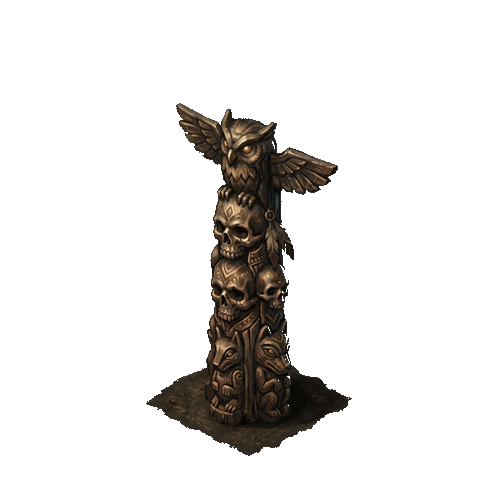
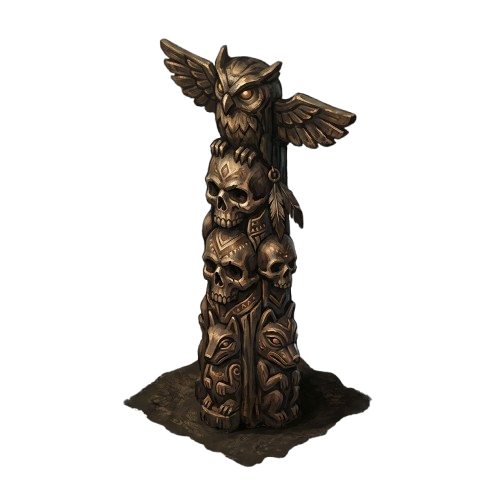
release: icona di gioco, asset finali, smoothness, documentazione di consegna
- icon.png/icon.ico (logo utente) cablati: icona di progetto/finestra + impressa nell'exe (rcedit).

- boss_fase3 rigenerato HI-RES (1376x768, buchi interni chiusi, ricentrato); totem lv2 pulito (removebg).

- Smoothness: PREWARM di tutte le texture del fight in configura() (niente load nel frame di spawn = micro-scatti eliminati); label ondata aggiornata solo su cambio.

- Documentazione di consegna: Docs/21-GDD (completo), 22-manuale-di-gioco, 23-note-tecniche. Cartella 'Consegna SVG' sul Desktop con exe+docs.

Changed region(s): [[0.24, 0.06, 0.75, 0.96]]

diff --git a/Docs/21-GDD.md b/Docs/21-GDD.md
@@ -1,0 +1,191 @@
+# HUMANITY LEDGER — Game Design Document
+
+*Versione 1.0 — Consegna esame Sviluppo Videogiochi, luglio 2026*
+*Engine: Godot 4.6 (GDScript) · Piattaforma: Windows Desktop*
+
+---
+
+## 1. Visione
+
+**Pitch.** Sei lo *Spirito anonimo del popolo*: una coscienza senza nome che attraversa le ere
+e guida una civiltà dalle pitture rupestri alle soglie del futuro. Non governi con i menù:
+**prendi decisioni trascinando le strategie sui consiglieri che le sostengono**, e ogni scelta
+resta scritta nel *Ledger* — il libro mastro dell'umanità.
+
+**Genere.** Gestionale narrativo a decisioni (drag & drop) + city-builder leggero + **tower
+defense auto-battler** (L'Assedio) come climax di fine era.
+
+**Tono.** Mito e memoria: "tomo illuminato" — bronzo, oro, pergamena; solenne ma leggibile.
+
+### 1.1 I tre pilastri
+1. **Ogni scelta resta.** Le decisioni muovono 8 statistiche, aprono quest, richiamano
+   conseguenze a distanza di ere, sbloccano lore permanente nel Ledger (meta-progressione).
+2. **Il villaggio è il protagonista.** Cresce a vista (stile Clash of Clans), produce Risorse,
+   e **arma la difesa**: ciò che costruisci è ciò con cui combatti.
+3. **Nessun game over.** Perdere una battaglia non ferma la storia: ne cambia il tono, le
+   ricompense e le cicatrici. Si va sempre avanti.
+
+---
+
+## 2. Core loop
+
+```
+DECISIONE (drag & drop su un consigliere)
+   → conseguenze: ±stat, popolazione, rapporti, flag narrativi
+   → PRODUZIONE Risorse (dagli edifici)
+COSTRUISCI / MIGLIORA il villaggio (Risorse + gate Costruzione)
+   → +stat tematica  → +bonus d'ASSEDIO (arsenale)
+QUEST di era (catene narrative, catastrofi, mystery)
+FINE ERA → L'ASSEDIO (tower defense: le stat diventano l'esercito)
+   → Era successiva … → DUELLO FINALE: L'ULTIMO DIO → EPILOGO (6+1 finali)
+```
+
+---
+
+## 3. Sistemi di gioco
+
+### 3.1 Le 8 statistiche
+Militare · Tesoro · Diplomazia · Scienza · Legge · Spionaggio · Popolo · Costruzione (0–100).
+Sono la memoria meccanica delle scelte **e il generatore dell'esercito** nell'Assedio (§4.3).
+
+### 3.2 Decisioni e consiglieri
+- 2 ere giocabili (Paleolitico → Regno Mitico), ~40 decisioni data-driven (`.tres`), 8
+  consiglieri per era con ritratto e archetipo.
+- Ogni decisione offre 2–4 **strategie**: si gioca trascinando la carta-azione sul consigliere
+  che la accetta (feedback di colore/accento per bersaglio).
+- Prerequisiti su stat (opzioni bloccate con motivo), effetti su stat/popolazione/rapporti,
+  richiami narrativi cross-era.
+
+### 3.3 Villaggio, Risorse e ARSENALE
+- **Risorse**: valuta prodotta a ogni decisione dagli edifici (base 2 + livelli, ×2 per gli
+  edifici economici). Si spende per costruire (10) e migliorare (14/24, gate Costruzione 30/55).
+- 6 lotti per era, edifici a 3 livelli con arte per stadio, traguardi con ricompense.
+- **Arsenale** — ogni edificio arma l'Assedio (mostrato in pannelli, tooltip e nella card
+  pre-battaglia "Il tuo villaggio ti arma"):
+
+| Categoria | Effetto in battaglia | Era 1 | Era 2 |
+|---|---|---|---|
+| **muro** | +14 HP villaggio per livello | Palizzata | Torre, Mura |
+| **monete** | +5 monete iniziali per livello | Essiccatoio | Mercato |
+| **truppe** | 1 unità gratis ogni 3 livelli (max 4) | Tenda, Capanna | Tempio |
+| **livello** | truppe partono di livello più alto (max +1) | Focolare, Totem | Fonderia, Archivio |
+
+- Le Risorse avanzate valgono monete di guerra (÷4) → l'economia non muore mai.
+- Catastrofi gravi possono far crollare di un livello un edificio (mai sotto Lv1).
+
+### 3.4 Diplomazia, quest, Ledger
+- 4 civiltà con rapporti [-5..+5]: alleati = truppe gratuite nell'Assedio; ostili = ondate
+  rinforzate.
+- Quest per era (7 catene), catastrofi (carestia, peste…), trama mystery sbloccabile.
+- **Ledger** (meta, persistente tra le run): lore, artefatti equipaggiabili (bonus passivi),
+  eventi; **NG+ "Eone"**: +15% minaccia e mura -5% per ciclo, con mutatori tematici e il
+  **7° finale segreto** ("Il Cerchio Compiuto") come ricompensa nascosta.
+- 3 difficoltà (Sereno / Equilibrato / Implacabile), persistite nelle opzioni.
+
+---
+
+## 4. L'ASSEDIO (tower defense auto-battler)
+
+Una sola grande strada; il villaggio a sinistra, la minaccia da destra. Niente piazzole:
+**evocazione illimitata** — clic sulla carta, l'unità esce dal cancello e si schiera da sola.
+
+### 4.1 Economia
+Monete iniziali da Tesoro/Popolo/Risorse (+arsenale). Bounty a uccisione. Nel duello finale
+un *drip* passivo sostituisce il farming (niente add).
+
+### 4.2 Roster (personaggi dell'era, per archetipo)
+| Archetipo | Era 1 | Era 2 | Ruolo | Scala con |
+|---|---|---|---|---|
+| Tiratore | Cacciatore | Arciere | danno singolo a distanza | Militare |
+| Bloccatore | Guerriero | Legionario | muro di mischia (HP) | Costruzione |
+| Sciamano | Sciamano del Gelo | Sacerdote | rallenta ad area | Scienza |
+| Caster | Piromante tribale | Mago del Fuoco | danno ad area | Scienza+Spionaggio |
+
+### 4.3 Progressione per-tipo Lv1→Lv5
+- Potenzia dalla carta (costo crescente); vale anche per le unità già in campo.
+- **Lv3 = nuova abilità** (Freccia perforante, Scudo di pelli, Gelo, Brace).
+- **Lv5 = ASCENSIONE**: nuovo sprite, **ultimate periodica** con callout a schermo e VFX
+  dedicato (Pioggia di lance, Grido di guerra, Tempesta di ghiaccio, Eruzione) **+ passivo
+  visibile** (crit oro della Mira, +N verde della Roccia, aura di gelo perenne, Calore).
+- Le ultimate delle unità a tiro hanno **gittata doppia** e **mirano al nemico più vicino**.
+
+### 4.4 Ondate e nemici
+6 ondate: 2 leggere → **mini-boss caster** (bombardamento telegrafato, raffiche di minion via
+portale) → 2 con nemici-abilità → **BOSS**. Abilità nemiche: caricatore (sfonda i bloccatori),
+scudato, evocatore, risanatore, scheletro che risorge — ognuna con glifo leggibile.
+
+### 4.5 Boss d'era
+Colosso (Era 1, mischia sismica) e Drago (Era 2, fuoco a distanza): kit distinti, abilità
+telegrafate su cerchio/zona, **tenuta/stagger** (finestra VULNERABILE che premia il burst),
+3 fasi con barre piene, trasformazione **cinematografica** (hitstop, letterbox, title-card),
+ultimate a zone evitabili con potenza calante. Anti-stallo berserk. FX per-archetipo.
+
+### 4.6 Esiti
+Immacolata / Trionfo / Fatica / Sopraffatto — modulano ricompense, Ledger e cicatrici.
+Mai game over.
+
+---
+
+## 5. IL DUELLO FINALE — "L'Ultimo Dio caduto"
+
+Dopo l'Assedio dell'Era 2, il mito che si rifiuta di morire sbarra la strada verso ciò che
+non è ancora stato forgiato. **Duello puro**: nessuna ondata, solo il Dio — tarato
+sull'arsenale del villaggio.
+
+| Fase | Forma | Comportamento |
+|---|---|---|
+| **I — Il Verdetto** | Idolo di pietra e oro | marcia; Verdetto (zona ORO telegrafata), Monito, Lacrime di fuoco |
+| **II — L'Idolo si erge** | **colosso a schermo pieno**, immobile a destra | +50% vita, +14 armatura; bombarda da lontano; **tutta l'armata lo colpisce ignorando la gittata** (i guerrieri scagliano lance) |
+| **III — Il Crepuscolo** | spettro cosmico (più grande, aura dorata pulsante) | torna a marciare; nuova abilità **Lame del Crepuscolo** (2 fasce orizzontali telegrafate: cambia fila!) |
+
+- **GIUDIZIO DIVINO** (ultimate): colonne di luce che calano dal cielo su zone telegrafate oro;
+  alla morte del Dio il Giudizio cala su di lui.
+- Vittoria → epilogo-soglia **"LA SOGLIA — continua…"** (gancio per il futuro del progetto);
+  sconfitta → si prosegue comunque, nel buio.
+
+---
+
+## 6. UI / UX
+
+- HUD: griglia 2×4 delle stat con barre animate e tooltip; barra Risorse; pannelli modali con
+  cornice ornata 9-slice e margini disciplinati (il testo non tocca mai i fregi).
+- Tooltip ricchi ovunque (edifici con effetto-Assedio, carte-unità con stat reali e sblocchi).
+- Callout di battaglia (nomi delle abilità), numeri di danno accumulati (nessun colpo
+  "sparisce"), banner d'ondata su cartiglio.
+- **Post-processing globale**: vignette morbida + grade caldo + grana film + aberrazione ai
+  bordi — il look "tomo illuminato" su ogni schermata.
+- Intro cinematica skippabile (Ken Burns, 3 beat), menu con tagline ed Eone badge.
+
+## 7. Arte & audio
+
+- Arte generata con pipeline AI (Gemini/Nano Banana) su prompt d'art-direction interni
+  (`Docs/08`), poi **rifinita a mano**: ritagli, ricentraggio sul baricentro, rimozione
+  watermark/checker, cablaggio **fallback-safe** (se un PNG manca, il gioco disegna un
+  placeholder coerente — mai crash).
+- Palette: bronzo #99703D · oro #E8C87A · cuoio #1C1612.
+- Musica originale per era + **musica dinamica** (tema teso nell'Assedio, dissolvenze).
+
+## 8. Architettura tecnica
+
+- **Autoload**: GameState (stat/flag/save-state), Ledger (meta+NG+), QuestManager, Diplomacy,
+  NarrativeLog, SaveSystem (save.json), AudioManager (musica dinamica, difficoltà, settings),
+  UiStyle (tema globale + 9-slice), PostFX (shader screen-space).
+- **Data-driven**: decisioni/quest/strategie/personaggi/finali in `.tres` sotto `data/`;
+  contenuti nuovi senza toccare codice.
+- **Assedio**: `scripts/siege/` (siege.gd arena + enemy/defender/projectile/boss), tutto
+  costruito via codice (niente .tscn), texture con prewarm anti-scatto.
+- **QA automatica** (`tools/`): `validate_scenes` (integrità), `playtest_curve`
+  (giocatore-attivo su 3 build × 2 ere), `playtest_assedio`, `playtest_finale` (duello),
+  `shot_arsenale`/`shoot` (verifica visiva a screenshot). I playtest sono **isolati dallo
+  stato utente** (NG+/difficoltà non falsano i numeri).
+- Salvataggi in `user://`: `save.json` (run), `ledger.json` (meta), `settings.cfg`.
+
+## 9. Finali
+
+6 epiloghi guidati dalle stat dominanti e dalle scelte (Guerra, Prosperità, Scienza, Alleanza,
+Industria, Futura) + **finale segreto** "Il Cerchio Compiuto" (Eone ≥1 + condizioni nascoste)
++ epilogo-soglia del Duello. Footer con Ricomincia / Nuovo Ciclo+ / Ledger.
+
+## 10. Post-consegna (direzioni già progettate)
+Era 3 "Futuro" (asset già presenti, sistema data-driven pronto) · modalità Assedio
+Endless/Boss-Rush · lealtà e micro-archi dei 16 consiglieri · SFX/tema audio del duello.

diff --git a/Docs/23-note-tecniche.md b/Docs/23-note-tecniche.md
@@ -1,0 +1,54 @@
+# HUMANITY LEDGER — Note tecniche
+
+*Godot 4.6.1 · GDScript · Windows x86_64 (Vulkan Forward+ / GL Compatibility)*
+
+## Struttura del progetto
+```
+scenes/            main_menu, main (loop di gioco), ui/ (drop_zone, ending, ledger, opzioni…)
+scripts/
+  autoload/        GameState · Ledger · QuestManager · Diplomacy · SaveSystem
+                   AudioManager · NarrativeLog · UiStyle · PostFX
+  data/            Resource: Decision, DecisionOption, Strategia, Quest, Personaggio,
+                   Effect, Finale, Catastrofe, Artefatto, EventoSbloccabile, Civilta
+  siege/           siege.gd (arena) · enemy · defender · projectile · boss
+  ui/              main.gd è il game-loop; village_view (diorama vivo), world_map, …
+data/              contenuti .tres (decisioni, quest, strategie, personaggi, finali…)
+Assets/art|audio   arte e musica (cablaggio fallback-safe: PNG assente → placeholder)
+tools/             QA: validate_scenes, playtest_curve/assedio/finale, shoot/shot_arsenale
+Docs/              design log (01–20), GDD (21), manuale (22), queste note (23)
+```
+
+## Scelte architetturali
+- **Data-driven**: i contenuti sono Resource `.tres`; aggiungere decisioni/quest/finali non
+  richiede codice. Il game-loop legge sequenze per era.
+- **Autoload come servizi**: stato di run (GameState) separato dalla meta-progressione
+  (Ledger) e dalle preferenze (AudioManager/settings.cfg). Save JSON versionati in `user://`.
+- **Assedio costruito via codice** (nessuna scena): l'arena genera HUD, corsia, formazioni;
+  le unità scalano dalle statistiche della run e dal livello per-tipo; il villaggio
+  contribuisce con l'**arsenale** (hp/monete/truppe/livello).
+- **Fallback-safe art pipeline**: ogni texture passa da helper con cache
+  (`_siege_tex/_fx_tex/UiStyle.icona`); PNG mancante → resa procedurale coerente. Gli asset
+  si "cablano da soli" per convenzione di nome (es. `fx/<base>_<boss>.png`).
+- **Post-FX**: CanvasLayer autoload con shader screen-space (vignette, grade, grana,
+  aberrazione) sopra ogni scena; parametri regolabili a runtime.
+- **Fluidità**: prewarm delle texture del fight in `configura()` (niente load nel frame di
+  spawn), aggiornamenti label solo-su-cambio, tween con cleanup, hitstop re-entrant-safe.
+
+## Qualità / QA
+- `validate_scenes.gd` — istanzia tutte le scene: 0 failure richiesti.
+- `playtest_curve` — giocatore ATTIVO simulato su 3 build × 2 ere: envelope atteso
+  (debole lotta/perde · medio passa · forte trionfa). Isolato dallo stato utente
+  (NG+/difficoltà azzerati in memoria).
+- `playtest_finale` — il duello su 4 combinazioni build×arsenale: sempre vittoria con
+  tensione (villaggio 40–65%).
+- `shot_arsenale` / `shoot` — harness di screenshot per la verifica visiva di ogni schermata.
+
+## Build
+1. Godot 4.6.1 + export templates 4.6.1.
+2. Preset "Windows Desktop" (incluso): PCK embedded, exclude di Docs/tools.
+3. `godot --headless --path . --export-release "Windows Desktop"` → `exports/HumanityLedger.exe`.
+4. Icona: `icon.png` (progetto) + `icon.ico` impressa nell'exe con rcedit.
+
+## Salvataggi (user://)
+`save.json` (run corrente) · `ledger.json` (meta: lore/artefatti/eventi/Eone) ·
+`settings.cfg` (audio/video/difficoltà).

diff --git a/Docs/22-manuale-di-gioco.md b/Docs/22-manuale-di-gioco.md
@@ -1,0 +1,46 @@
+# HUMANITY LEDGER — Manuale di gioco
+
+## Avvio
+Doppio clic su `HumanityLedger.exe` (Windows 10/11, nessuna installazione).
+Dal menu: **Nuova Partita** · Continua · Ledger · Opzioni (difficoltà, audio, schermo) · Esci.
+L'intro cinematica si salta con un tasto qualsiasi.
+
+## Come si gioca — la vita del popolo
+1. **Un consigliere propone un dilemma.** Leggi il suo racconto: è la voce dell'era.
+2. **Trascina una carta-strategia sul consigliere che la sostiene.** Il bordo colorato ti dice
+   il bersaglio giusto; le opzioni bloccate mostrano il requisito mancante.
+3. **Le conseguenze restano**: statistiche (le 8 barre in alto a sinistra), popolazione,
+   rapporti con le civiltà, nuove quest… e a volte tornano a bussare un'era dopo.
+4. **Il villaggio cresce**: ogni turno produce **Risorse**. Clicca un lotto libero («+») per
+   costruire, clicca un edificio per migliorarlo (tasto **V**: vista d'insieme).
+   *Ogni edificio, oltre a sviluppare una statistica, ARMA la difesa* (lo vedi nel pannello).
+5. A fine era… **L'ASSEDIO**.
+
+## L'Assedio (difesa del villaggio)
+- **Clicca una carta-unità** per evocarla (costa monete): esce dal cancello e si schiera da sola.
+- **Potenzia** i tipi dalla carta (Lv3 = nuova abilità, **Lv5 = Ascensione**: ultimate
+  automatiche col nome a schermo + passivo).
+- I nemici telegrafano le mosse (cerchi e fasce = SPOSTATI); il boss ha una barra di **tenuta**:
+  riempila per renderlo VULNERABILE.
+- Perdere non è la fine: la storia continua, con cicatrici.
+
+## Il Duello finale
+Dopo la seconda era, **L'Ultimo Dio** sbarra la soglia del futuro: tre fasi, zone dorate da
+schivare, e nella seconda fase il colosso è immobile — **tutta l'armata può colpirlo, anche i
+guerrieri con le lance**. Il tuo villaggio è il tuo arsenale: arrivaci costruito.
+
+## Comandi
+| Input | Azione |
+|---|---|
+| Mouse (drag & drop) | giocare le strategie |
+| Clic su edificio / lotto «+» | migliora / costruisci |
+| Rotella / trascina (vista villaggio) | zoom / panoramica |
+| **V** | pannello del villaggio |
+| **L** | il Ledger (lore, artefatti, eventi) |
+| **ESC** | pausa / opzioni |
+
+## Rigiocare
+- **6 finali** + un **finale segreto**.
+- **Nuovo Ciclo+ (Eone)**: riparti più forte di memoria, contro un mondo più feroce
+  (+minaccia, mura più fragili, mutatori tematici).
+- **Difficoltà**: Spirito Sereno / Equilibrato / Implacabile (Opzioni, anche a partita in corso).